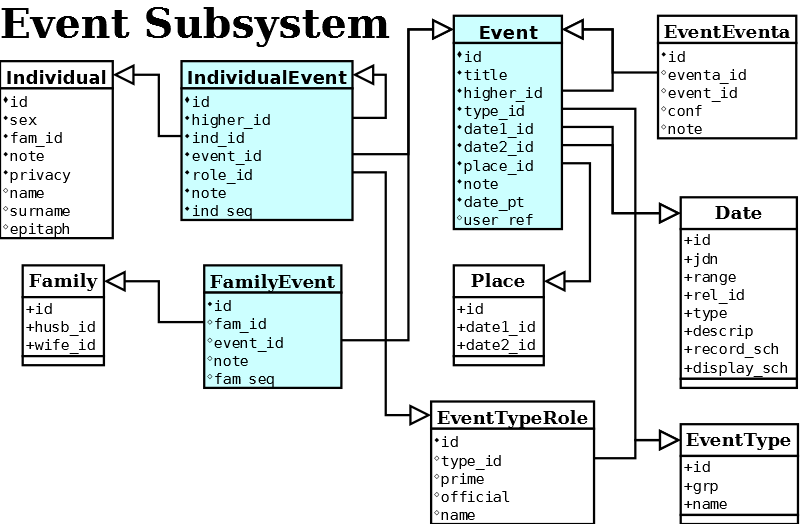
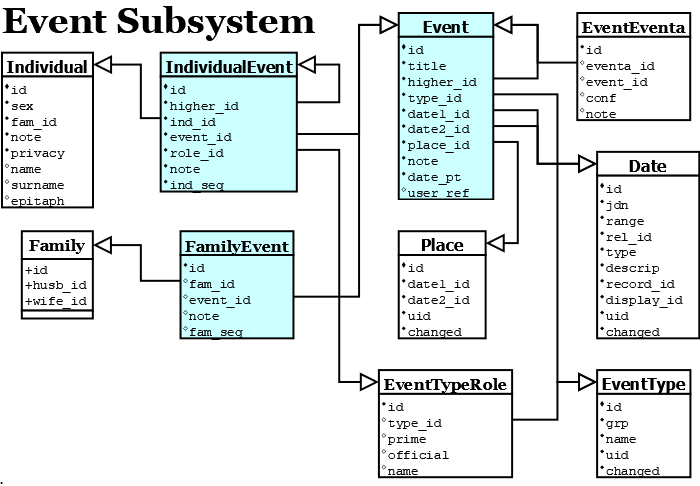
Website, update development manual database Event sub-system diagrams.
Replace diagrams for Event Eventa and EventType sub-systems

Changed region(s): [[0.0, 0.0, 1.0, 1.0]]

diff --git a/website/dev/man/db/sub/eventtypes.htm b/website/dev/man/db/sub/eventtypes.htm
@@ -63,7 +63,9 @@
 <tr><td>2</td><td>Near&nbsp;Birth</td><td>ie Baptism or Birth registration. If the date of birth is not known, then the date of this event can be used as an approimation</td></tr>
 <tr><td>5</td><td>Death</td><td>The single death event for an individual.</td></tr>
 <tr><td>6</td><td>Near&nbsp;Death</td><td>ie Burial or Death registration. If the date of death is not known, then the date of this event can be used as an approimation</td></tr>
-<tr><td>3</td><td>Family&nbsp;Union</td><td>Normally a Marriage, but can be any event which signifies the offical start of the relationship.</td></tr>
+<tr><td>10</td><td>Family</td><td>Relationship within a family. Used by an Eventa record only, they can be converted to Family records on the conclusion side.</td></tr>
+<tr><td>9</td><td>Relation</td><td>Relationship outside of a family. Used by an Eventa record only, These can be converted to multiple Family Eventa.</td></tr>
+<tr><td>3</td><td>Family&nbsp;Union</td><td>Normally a Marriage, but can be any event which signifies the official start of the relationship.</td></tr>
 <tr><td>4</td><td>Other&nbsp;Family</td><td>Any family event in which both partners are equally equally prime, other than a official union event. It may occur before (engagment) or after (divorce) the union event.</td></tr>
 <tr><td>8</td><td>Personal</td><td>These are events which last the lifetime of an individual. Although the details may change over time, at any given time they normally have a single state. ie Occupation, Physical appearance or Residency</td></tr>
 <tr><td>7</td><td>Other</td><td>Anything which does not fit into the other Groups</td></tr>
